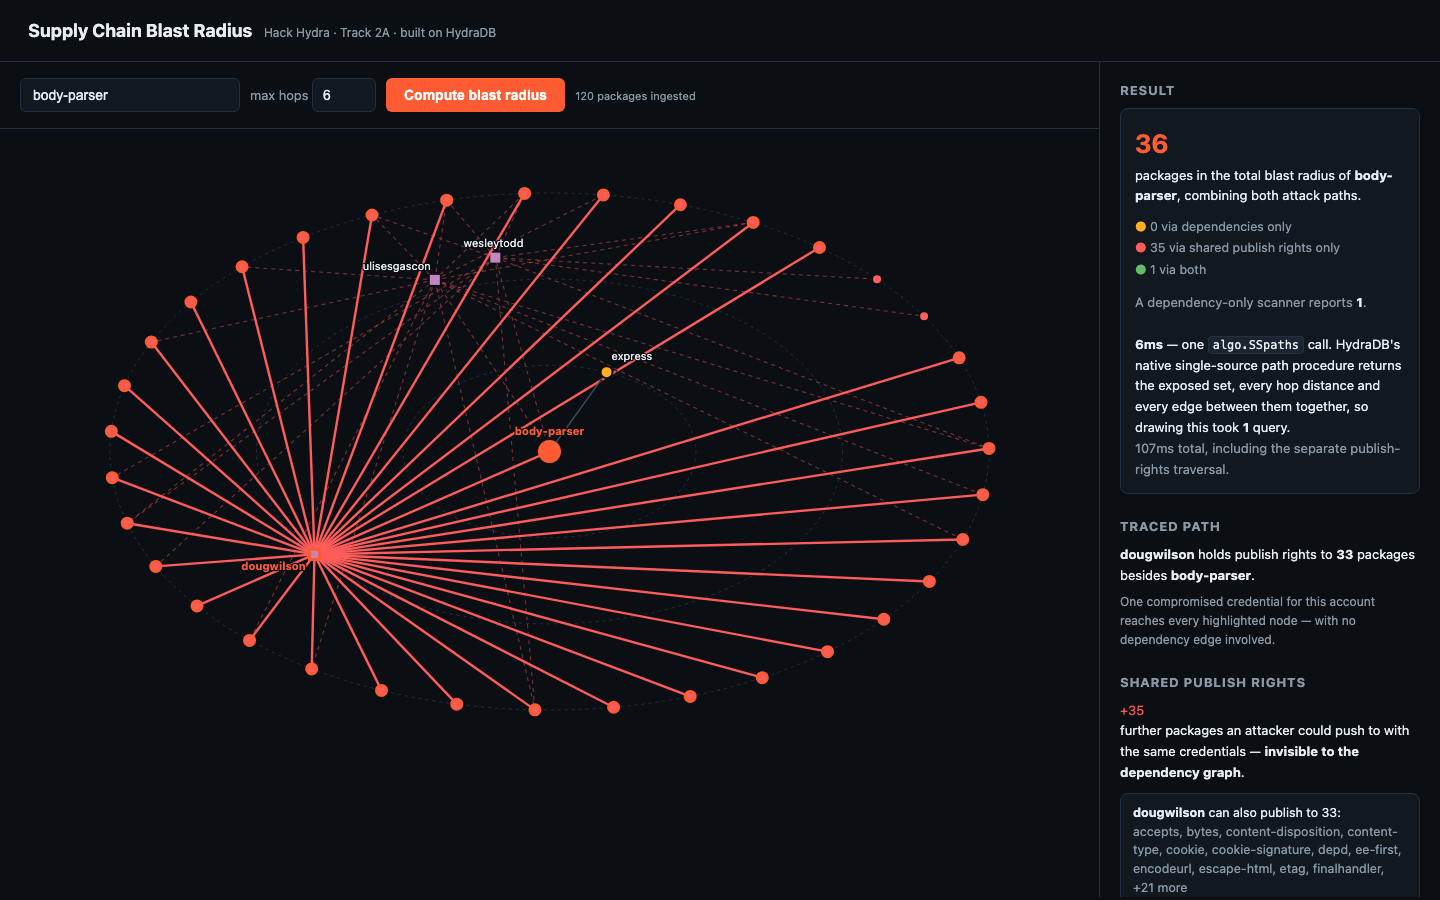
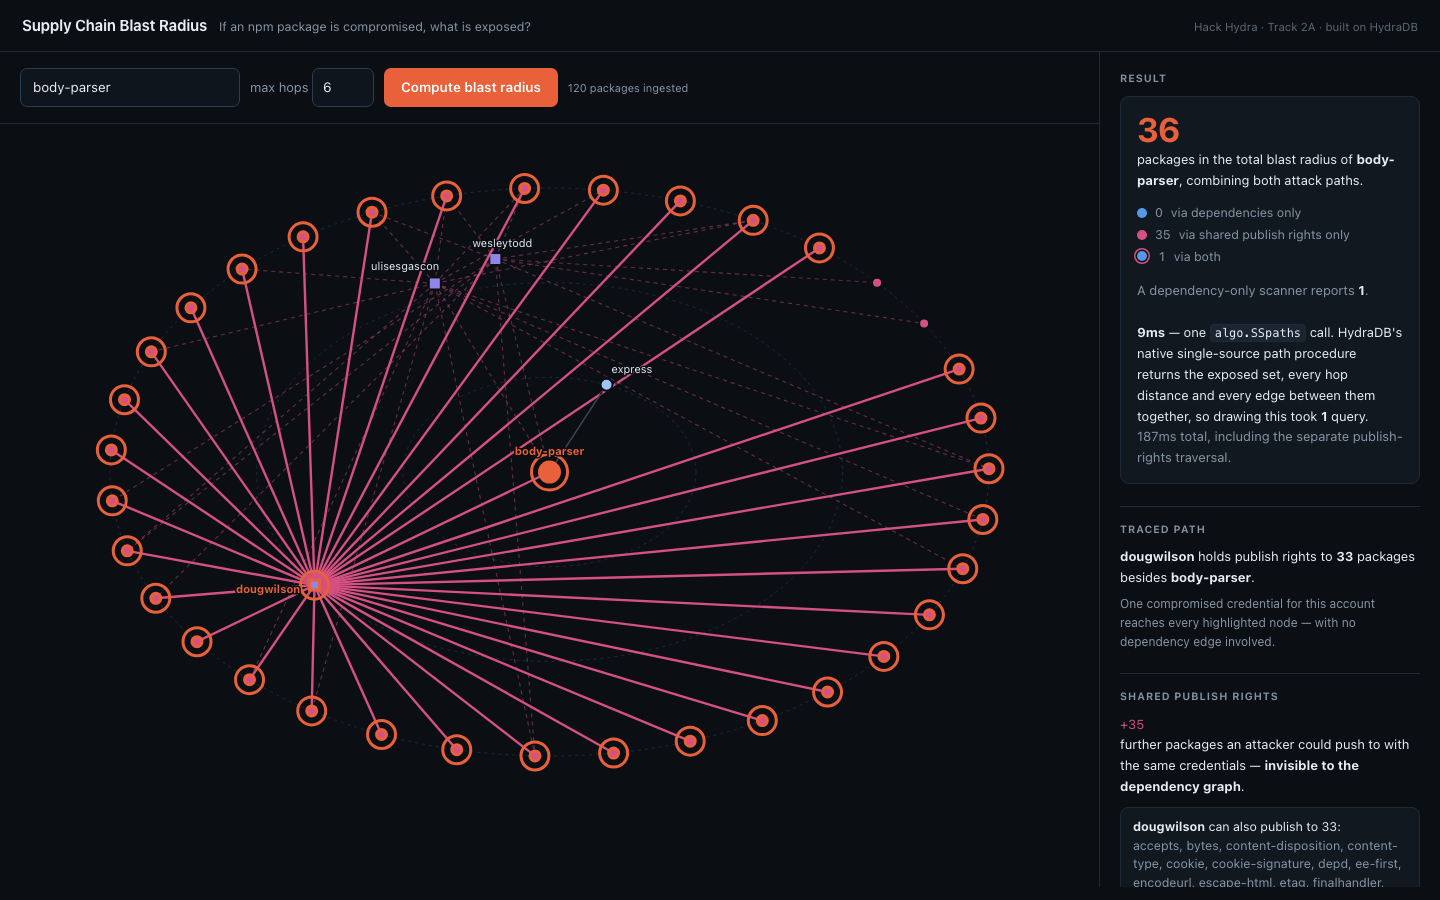
Recapture the screenshots against the palette they now ship with
Both README images were captured on Aug 13, before 5ac3e4d gave the palette
a job: they show yellow dependency nodes and plain red publish-rights edges
where the app now draws blue by hop distance, orange highlight rings, and a
brighter traced chain. The pictures still described the software correctly,
but not the software a reader downloads.

Recaptured from the same two deep links at the same 1440x900, against the
current 120-package demo graph, now that the highlight survives the
re-layout that had been wiping it (a09f4fb) — which is what made these
worth retaking rather than merely restyling.

The credential-reach caption named "the small orange core" as the whole
dependency blast radius. Hop-1 nodes are blue now, so the core it points at
is one orange node and one blue one; it names both packages instead.

diff --git a/README.md b/README.md
@@ -27,7 +27,7 @@ The gap is not academic. On the demo graph:
 
 ![One maintainer's publish reach from body-parser](docs/credential-reach.png)
 
-*Clicking the maintainer `dougwilson` lights up everything one stolen credential reaches. The small orange core is the entire dependency blast radius; every other node is invisible to a dependency scanner. Both channels are drawn — squares are maintainers, dashed edges are publish rights.*
+*Clicking the maintainer `dougwilson` lights up everything one stolen credential reaches. The two-node core near the centre — `body-parser` and `express` — is the entire dependency blast radius; every other node is invisible to a dependency scanner. Both channels are drawn — squares are maintainers, dashed edges are publish rights.*
 
 **Why a graph database rather than a table or a vector index.** The dependency answer is a transitive closure of unbounded depth — a self-join repeated until fixpoint in SQL, one traversal here. The publish-rights answer is a two-hop walk *across two different edge types* (`MAINTAINED_BY` then `MAINTAINS`). Neither is a similarity question, so an embedding index cannot answer either one: "which packages are semantically similar to `qs`" is not "which packages break when `qs` breaks."
 
